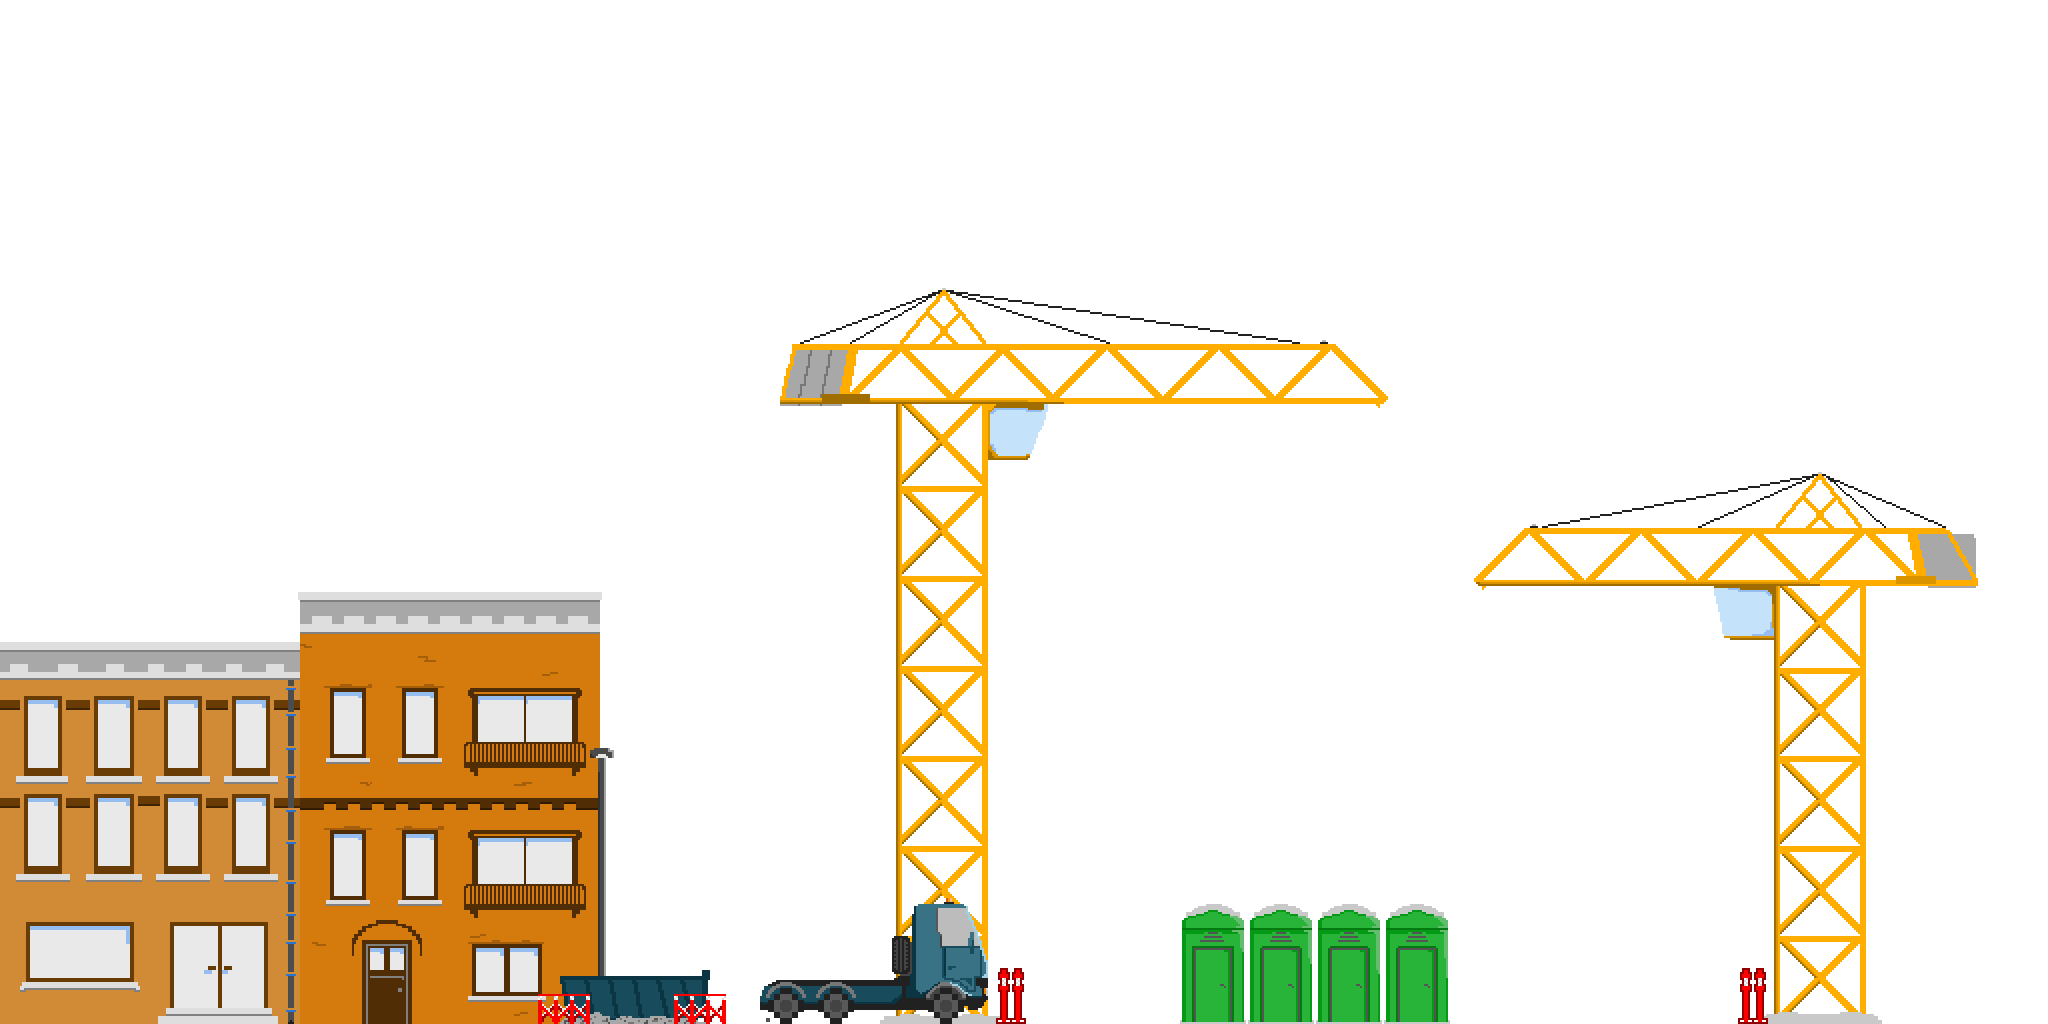
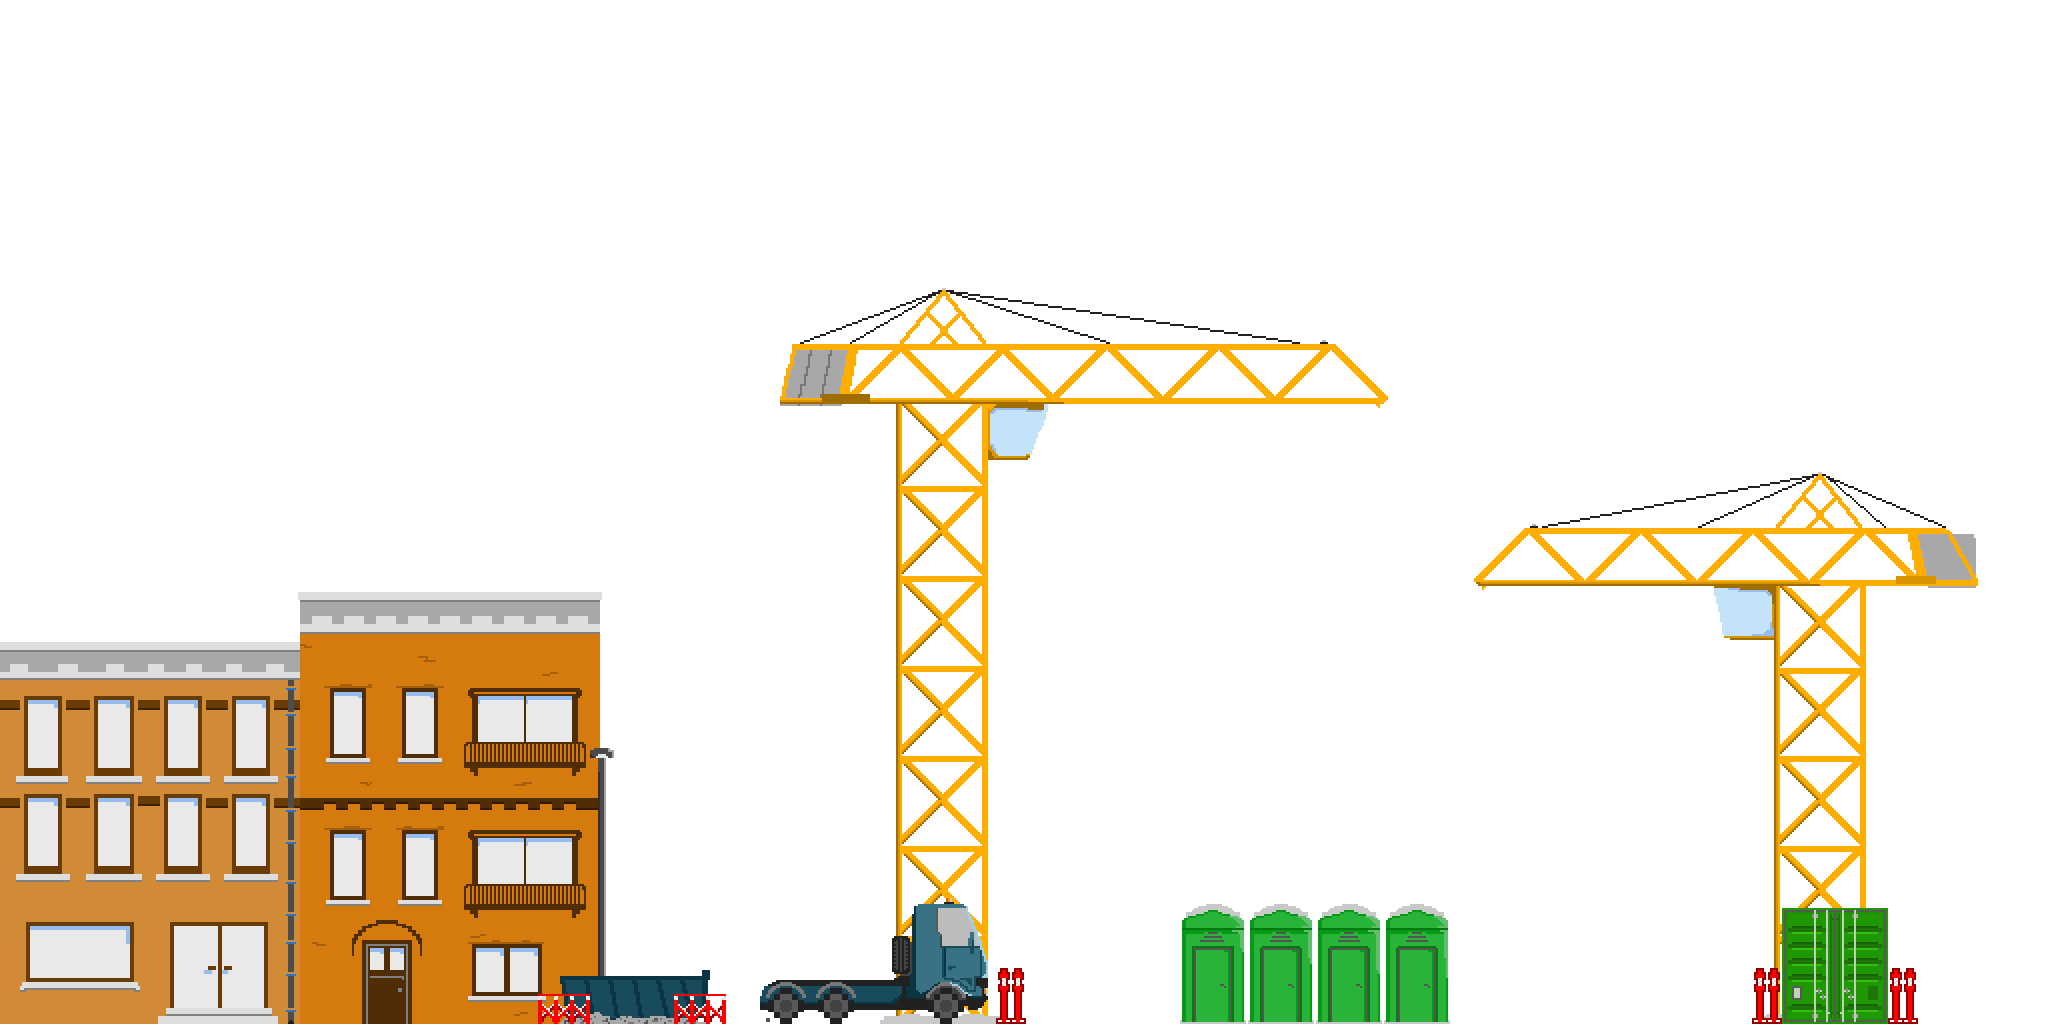
ajoute container coté droit chantier + hitboxes

Changed region(s): [[0.8438, 0.875, 0.9375, 1.0]]

diff --git a/src/scripts/app.js b/src/scripts/app.js
@@ -316,6 +316,10 @@ class MainWorld extends Phaser.Scene {
         let cabh = this.physics.add.staticImage(8262, 628, null).setSize(54, 18).setVisible(false); //chantier - camion cabine haut
         let cabg = this.physics.add.staticImage(8222, 670, null).setSize(20, 40).setVisible(false); //chantier - camion cabine gauche
         let camiona = this.physics.add.staticImage(8298, 694, null).setSize(20, 60).setVisible(false); //chantier - camion avant
+        let plot1 = this.physics.add.staticImage(8331, 704, null).setSize(28, 45).setVisible(false); //chantier - plot devant camion
+        let plot2 = this.physics.add.staticImage(9087, 704, null).setSize(28, 45).setVisible(false); //chantier - plot gauche container
+        let plot3 = this.physics.add.staticImage(9223, 704, null).setSize(28, 45).setVisible(false); //chantier - plot droite container
+        let container = this.physics.add.staticImage(9156, 672, null).setSize(106, 100).setVisible(false); //chantier - container
     
         // colliders
         this.physics.add.collider(player, groundCollider);
@@ -331,6 +335,10 @@ class MainWorld extends Phaser.Scene {
         this.physics.add.collider(player, cabh); //chantier - camion cabine haut
         this.physics.add.collider(player, cabg); //chantier - camion cabine gauche
         this.physics.add.collider(player, camiona); //chantier - camion avant
+        this.physics.add.collider(player, plot1); //chantier - plot camion
+        this.physics.add.collider(player, plot2); //chantier - plot gauche container
+        this.physics.add.collider(player, plot3); //chantier - plot droite container
+        this.physics.add.collider(player, container); //chantier - container
         this.physics.add.collider(player, bateau);
         this.physics.add.collider(player, smallPlat); //Chantier plat petite grue
         this.physics.add.collider(player, bigPlat); //Chantier plat grande grue
